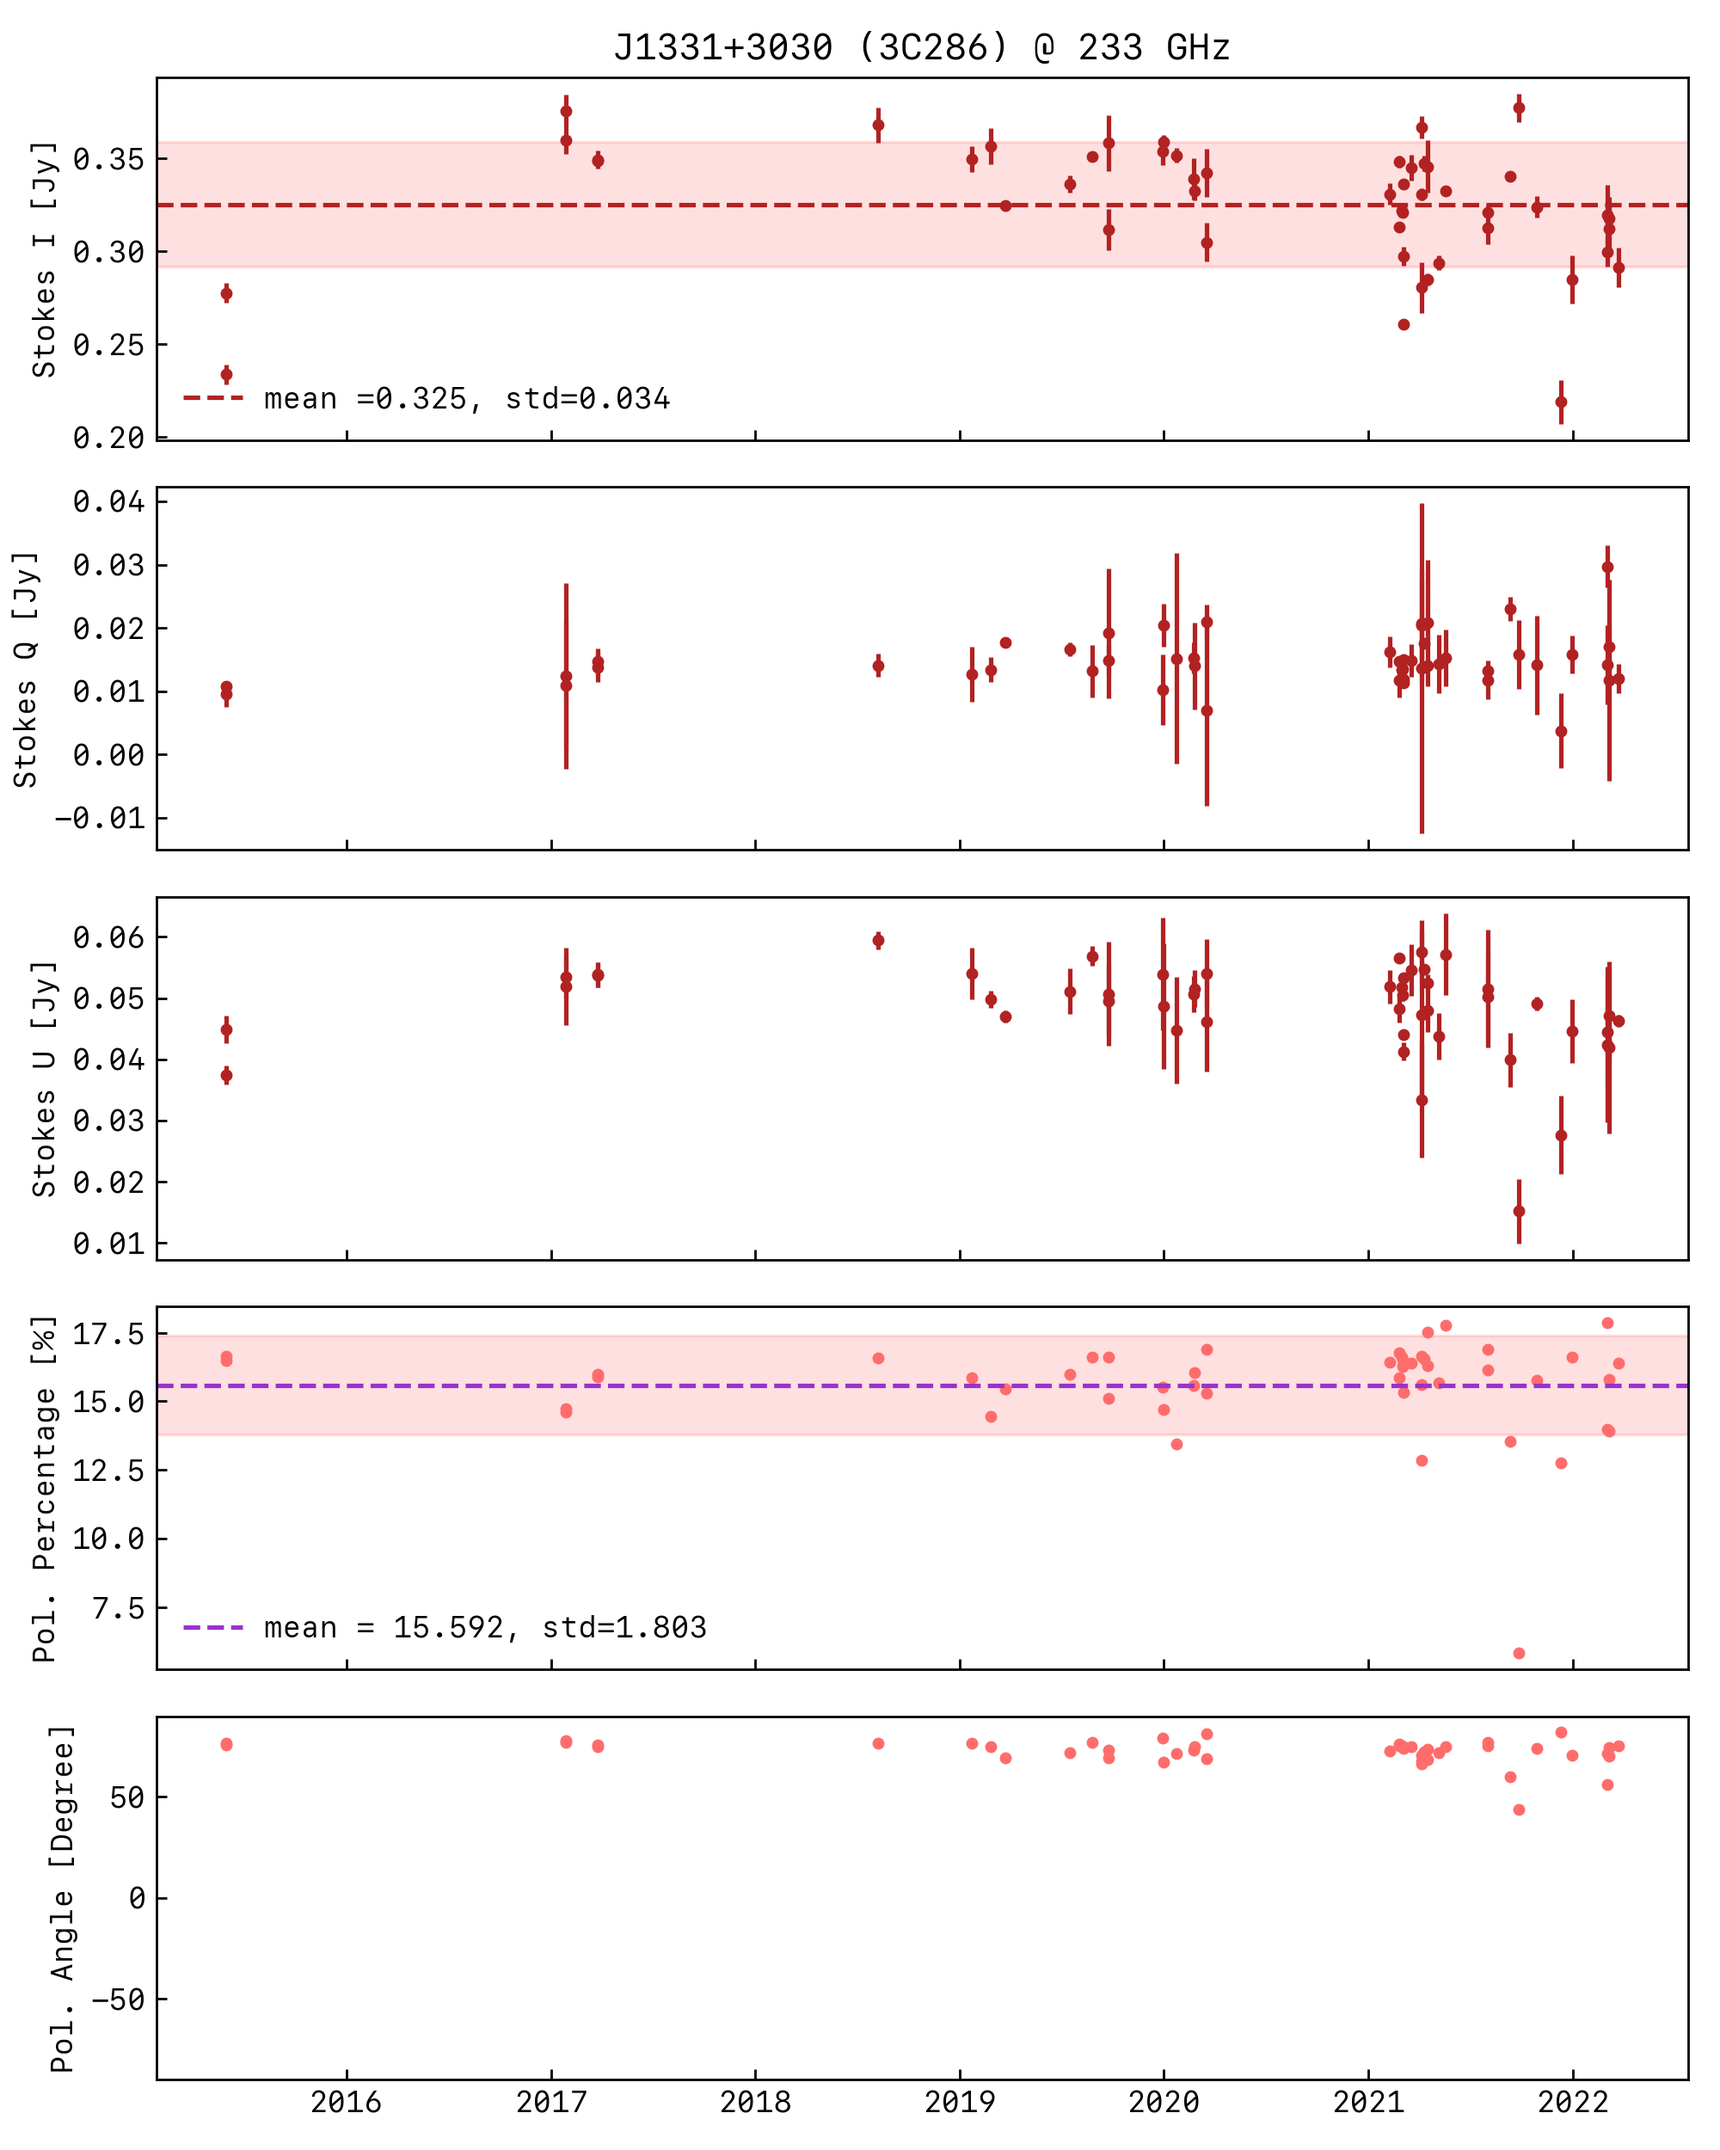
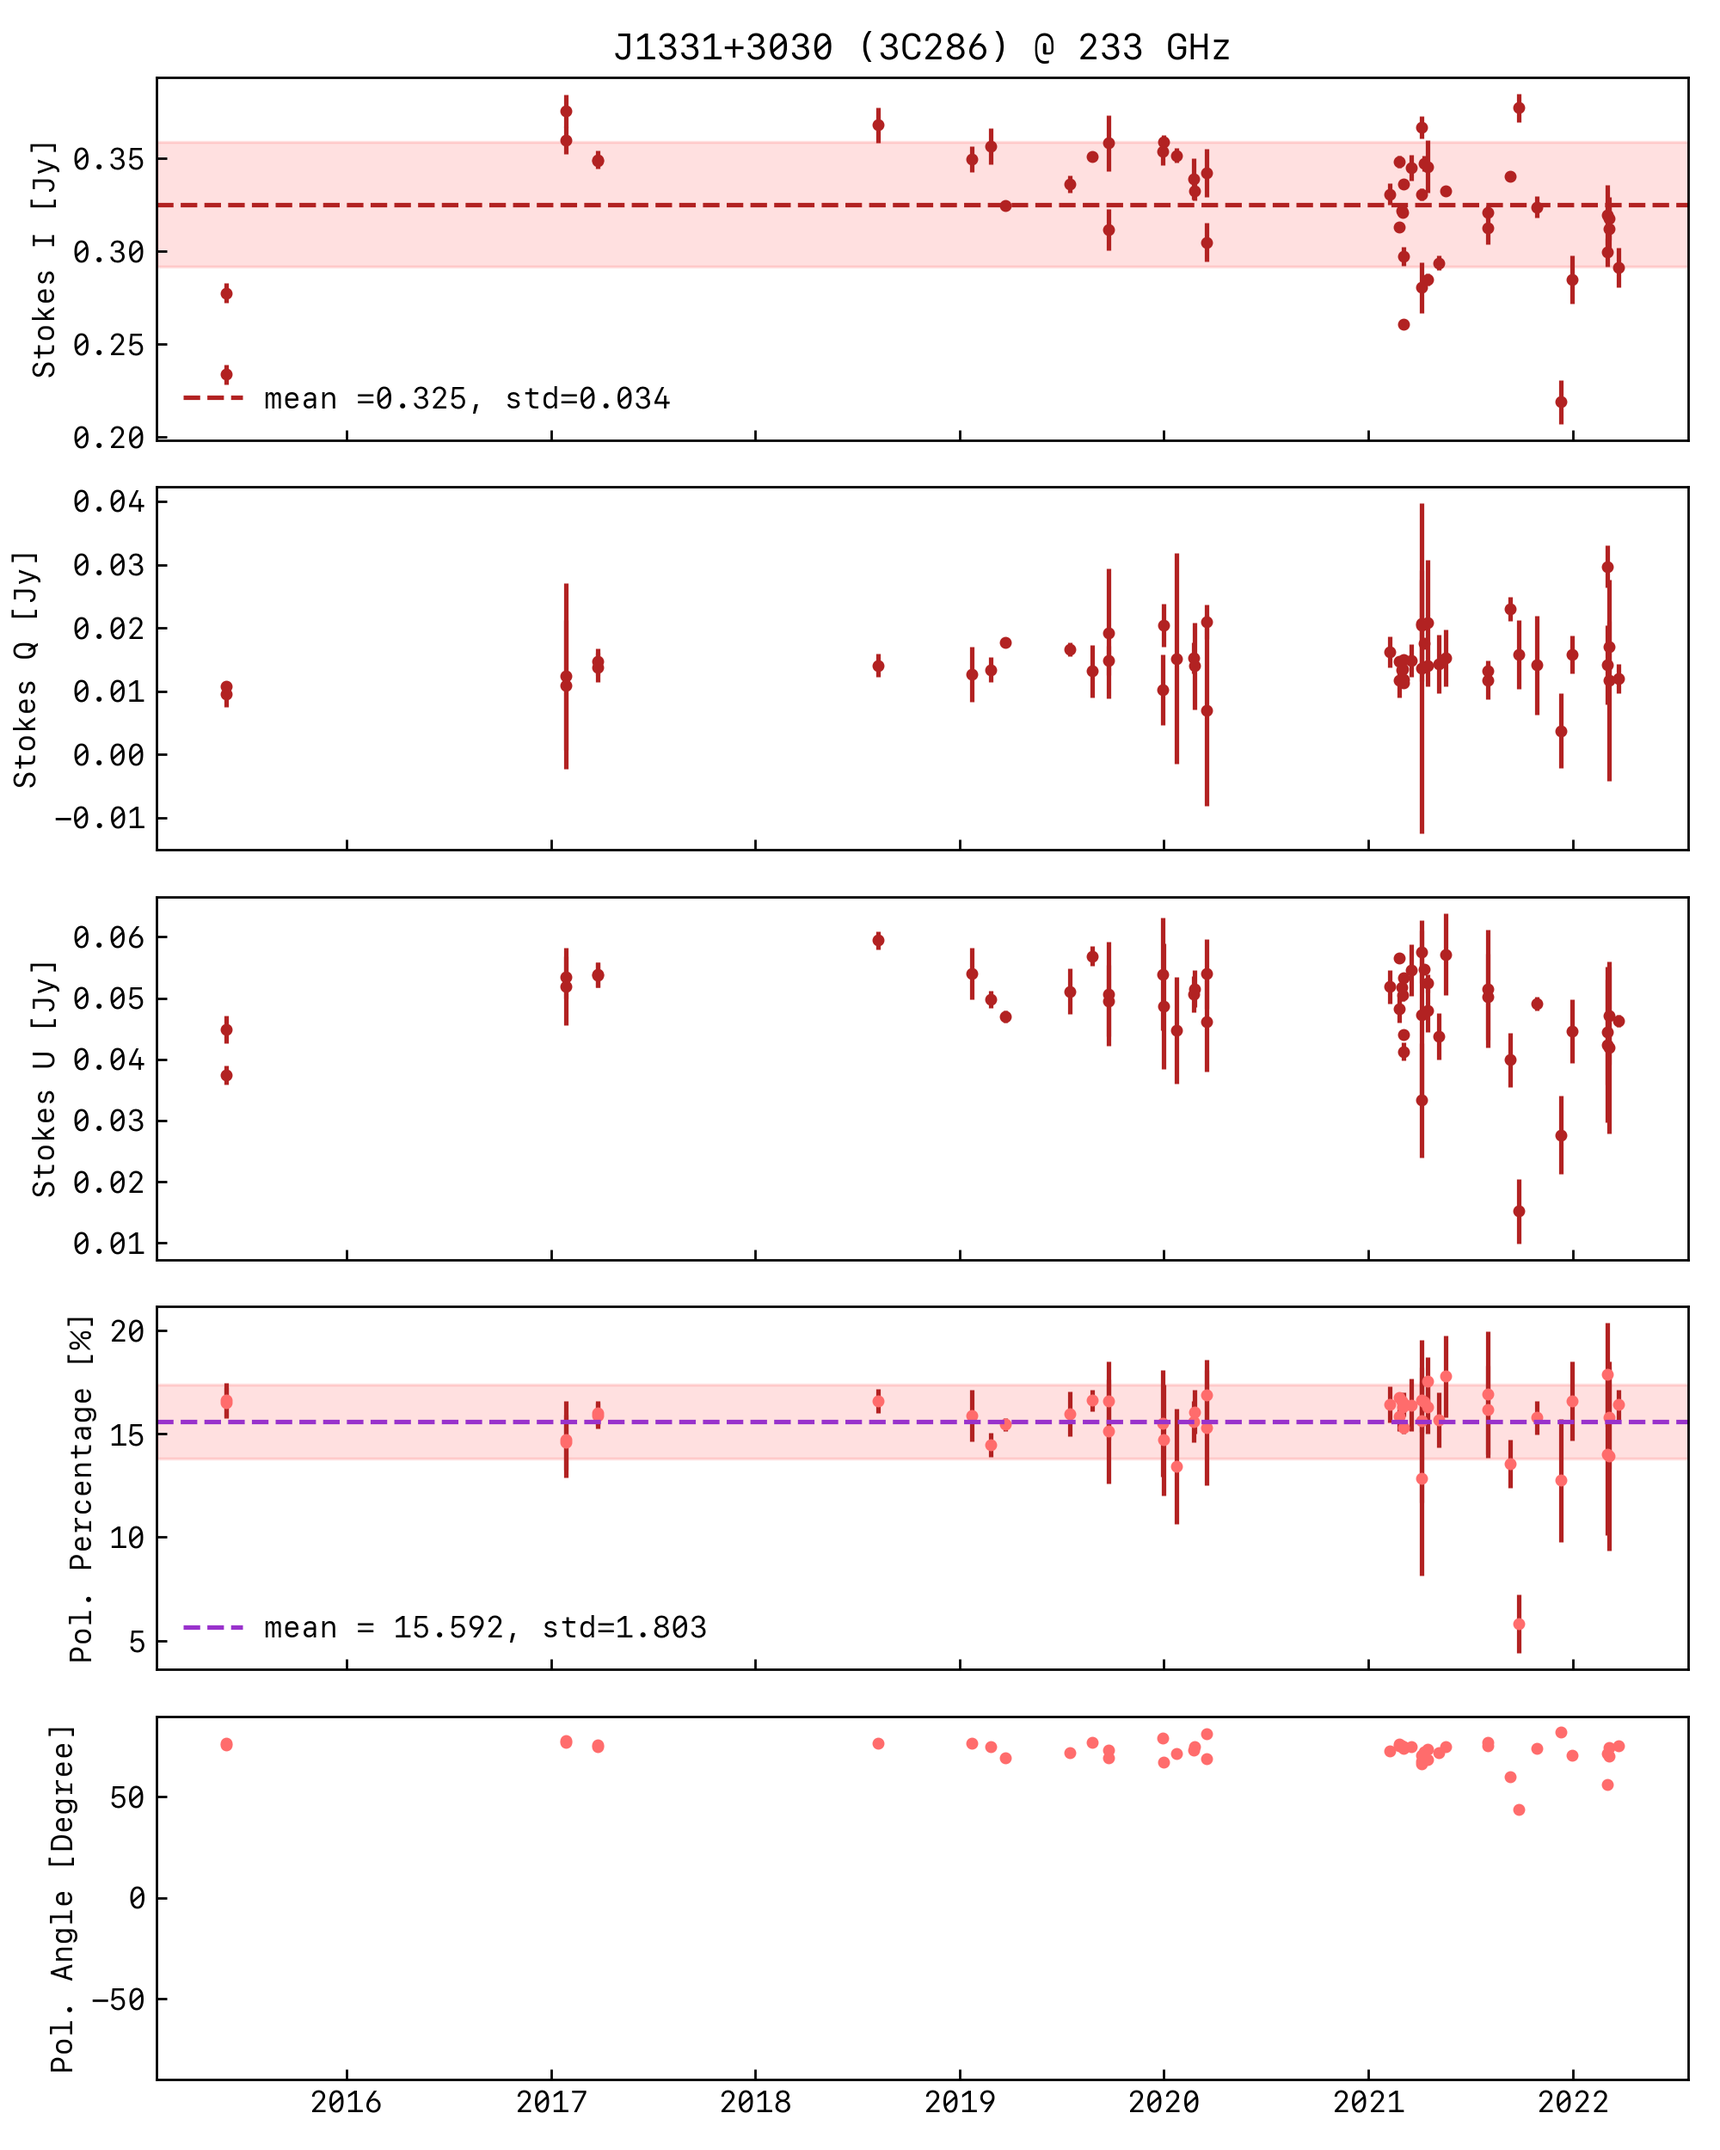
with polarization percentage uncertainties

Changed region(s): [[0.0, 0.5928, 0.992, 0.78], [0.868, 0.7488, 0.899, 0.78]]

diff --git a/src/amapola_obs.py b/src/amapola_obs.py
@@ -14,11 +14,23 @@ try:
 except:
     pass
 
+def pol_percentage_err(I, Q, U, eI, eQ, eU):
+    
+    term_1 = (1 / (Q**2 + U**2)) * ((Q * eQ)**2 + (U * eU)**2) 
+    term_2 = (((Q / I)**2 + (U / I)**2) * (eI**2)) 
+    
+    return (100 / I) * np.sqrt(term_1 + term_2)
+
+
 if __name__ == "__main__":
     amapola_data_file = './data/amapola.txt'
     amapola_data = pd.read_csv(amapola_data_file, delimiter='\t')
     amapola_data['Date'] = pd.to_datetime(amapola_data['Date'])
+
+    # polpercentage
     amapola_data['polpercentage'] = 100 * np.sqrt(amapola_data['Q']**2 + amapola_data['U']**2) / amapola_data['I']
+    amapola_data['epolpercentage'] = pol_percentage_err(amapola_data['I'], amapola_data['Q'], amapola_data['U'], amapola_data['eI'], amapola_data['eQ'], amapola_data['eU'])
+
     amapola_data['p'] =  amapola_data['P'] / amapola_data['I']
     amapola_data['polangle'] = np.arctan2(amapola_data['U'], amapola_data['Q'])
     amapola_data['rotatedpolangle'] = np.arctan2(amapola_data['U'], amapola_data['Q']) + (np.pi / 2)
@@ -58,6 +70,7 @@ if __name__ == "__main__":
 
         # Polarization Percentage
         sp_obj[3].plot(this_source_only['Date'], this_source_only['polpercentage'], '.')
+        sp_obj[3].errorbar(this_source_only['Date'], this_source_only['polpercentage'], this_source_only['epolpercentage'], ls='none', color='firebrick')
         sp_obj[3].axhline(np.mean(this_source_only['polpercentage']),  ls='--', label=f"mean = {np.mean(this_source_only['polpercentage']):0.3f}, std={np.std(this_source_only['polpercentage']):0.3f}", color='darkorchid')
         sp_obj[3].axhspan(np.mean(this_source_only['polpercentage']) - np.std(this_source_only['polpercentage']), np.mean(this_source_only['polpercentage']) + np.std(this_source_only['polpercentage']), alpha=0.12, color='red', edgecolor=None)
         sp_obj[3].set_ylabel("Pol. Percentage [%]")
